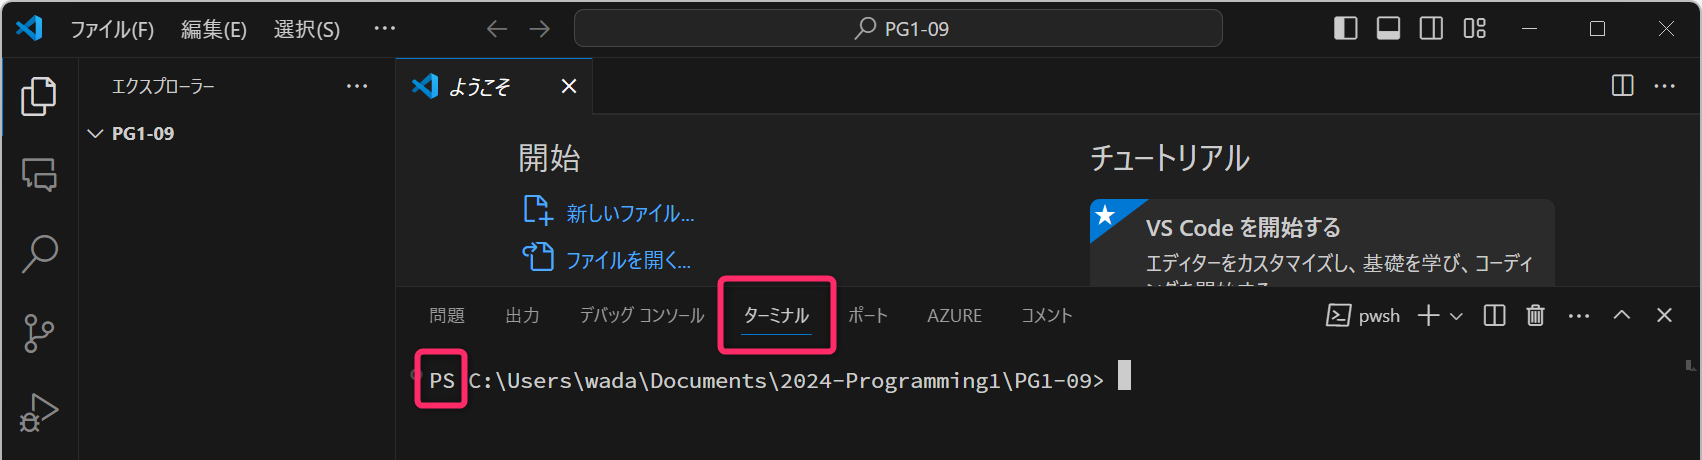
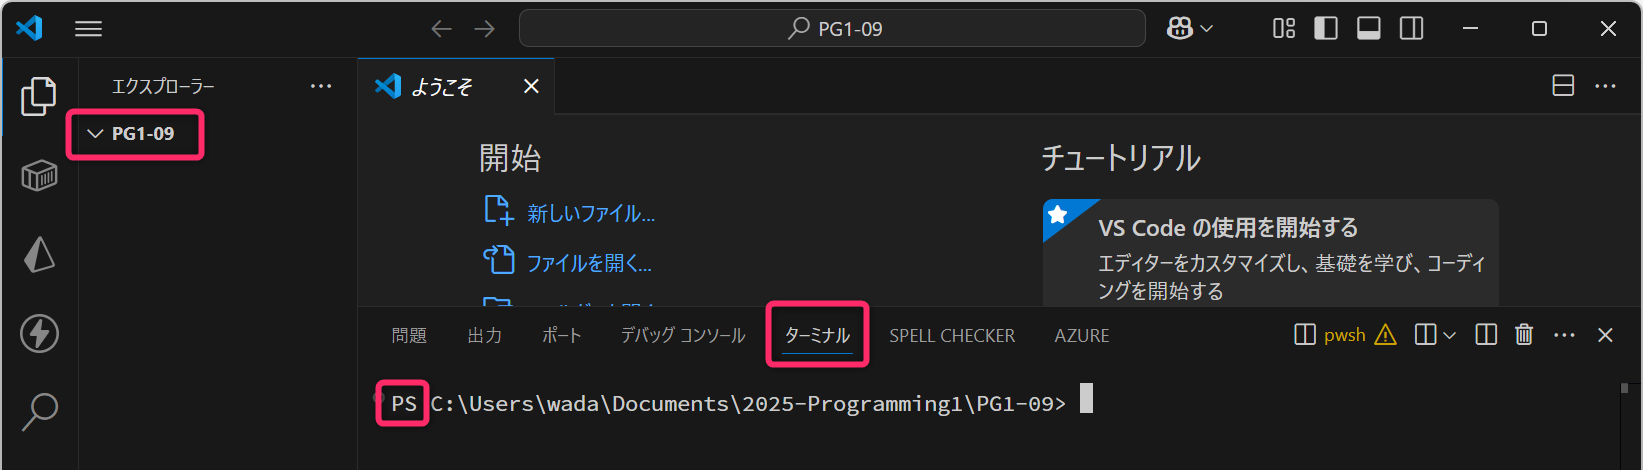
update 7 files and create 7 files

diff --git a/docs/lecture09.html b/docs/lecture09.html
@@ -65,8 +65,10 @@ Python のインストール</a>
 id="toc-リリース情報の確認とインストーラの入手"><span
 class="toc-section-number">4.1</span>
 リリース情報の確認とインストーラの入手</a></li>
-<li><a href="#md5-sum-の確認" id="toc-md5-sum-の確認"><span
-class="toc-section-number">4.2</span> MD5 Sum の確認</a></li>
+<li><a href="#md5-sum-の確認-オプション"
+id="toc-md5-sum-の確認-オプション"><span
+class="toc-section-number">4.2</span> MD5 Sum の確認
+(オプション)</a></li>
 <li><a href="#インストール" id="toc-インストール"><span
 class="toc-section-number">4.3</span> インストール</a></li>
 <li><a href="#正常にインストールされたことの確認-1"
@@ -133,6 +135,8 @@ class="toc-section-number">7.2</span>
 ノートブックの新規作成と実行</a></li>
 <li><a href="#注意点" id="toc-注意点"><span
 class="toc-section-number">7.3</span> 注意点</a></li>
+<li><a href="#作業の再開" id="toc-作業の再開"><span
+class="toc-section-number">7.4</span> 作業の再開</a></li>
 </ul></li>
 <li><a href="#演習" id="toc-演習"><span
 class="toc-section-number">8</span> 演習</a></li>
@@ -153,7 +157,7 @@ class="toc-section-number">8</span> 演習</a></li>
       <ul>
       <li><p>事前連絡したように、次のファイルを予めダウンロードしておいてください。</p></li>
       <li><p>ダウンロードしたファイルは「デスクトップ」に移動しておいてください。以降、デスクトップに各ファイルが置かれていることを前提に解説します。</p>
-      <ul>
+      <ol type="1">
       <li>Python 3.13.5 Windows installer (64-bit)
       <code>python-3.13.5-amd64.exe</code><a
       href="https://www.python.org/downloads/release/python-3135/">入手先</a></li>
@@ -163,7 +167,7 @@ class="toc-section-number">8</span> 演習</a></li>
       <li>Source Han Code JP | 源ノ角ゴシック Code
       <code>SourceHanCodeJP.ttc</code><a
       href="https://github.com/adobe-fonts/source-han-code-jp/releases">入手先</a></li>
-      </ul></li>
+      </ol></li>
       </ul>
       <div class="note type-caution">
       <p><strong>注意</strong></p>
@@ -319,9 +323,13 @@ class="toc-section-number">8</span> 演習</a></li>
       <p>公式ページにアクセスして、メニューの「<strong>Downloads</strong>」から「<strong>Windows</strong>」を選択して
       <a
       href="https://www.python.org/downloads/windows/">Windows向けのPythonのリリース状況</a>
-      を確認します。「リリース」とは <span
+      を確認します。</p>
+      <div class="note type-tips">
+      <p><strong>「リリース」とは</strong></p>
+      <p>リリース (Releases) とは <span
       class="masked">ソフトウェアやその新バージョンを一般公開すること、ユーザーが入手可能・利用可能な状態にすること</span>
       を意味します。</p>
+      </div>
       <p>2025年６月23日段階では、<strong>安定版</strong> (Stable
       Releases) として「Python 3.<strong>13</strong>.5」「Python
       3.<strong>12</strong>.10」「Python
@@ -350,7 +358,7 @@ class="toc-section-number">8</span> 演習</a></li>
       <p>Stable Releases
       とは「<strong>安定版</strong>」という意味です。ソフトウェアのインストールにおいては、特段の理由がなければ、この
       Stable Releases (安定版) や LTS (長期サポート版)
-      を選択するようにしください。その他、次のようなバージョンがあります。</p>
+      を選択するようにしてください。その他、次のようなバージョンがあります。</p>
       <ul>
       <li><strong>Long-Term Support Release (LTS) </strong>:
       特定のバージョンについて、長期間にわたりセキュリティ更新やバグ修正を提供するバージョンです。</li>
@@ -367,8 +375,9 @@ class="toc-section-number">8</span> 演習</a></li>
       Release</strong> や <strong>Alpha Release</strong>
       などを含んだ呼称です。</p>
       </div>
-      <h2 data-number="4.2" id="md5-sum-の確認"><span
-      class="header-section-number">4.2</span> MD5 Sum の確認</h2>
+      <h2 data-number="4.2" id="md5-sum-の確認-オプション"><span
+      class="header-section-number">4.2</span> MD5 Sum の確認
+      (オプション)</h2>
       <p>ダウンロードした「ファイルが破損していないか」、あるいは、ダウンロード途中で<strong>中間者攻撃を受けて</strong>「ファイルがすり替えられていないか」、「<strong>ウイルスを埋め込まれていないか</strong>」を確認する方法を紹介します。</p>
       <p>ここでは、<code>python-3.13.5-amd64.exe</code>
       がデスクトップに置かれているものとします。</p>
@@ -411,9 +420,6 @@ CertUtil: -hashfile コマンドは正常に完了しました。</code></pre>
       」のチェックボックスがグレーアウトしていることもあります
       (その場合は、チェック不要です)。また、3.13.X
       がインストールされている環境ではアップグレードを促す画面になるので、アップグレードをしてください。</p>
-      <div class="note type-caution">
-      <p><strong>以降のスクリーンショットは「3.11.4」のものです。適宜、読み替えてください。</strong></p>
-      </div>
       <figure>
       <img src="figs/09/py_inst_01.png" alt="img" />
       <figcaption aria-hidden="true">img</figcaption>
@@ -706,8 +712,20 @@ RemoteSigned</code></pre>
       プロジェクトフォルダの作成</h2>
       <p>エクスプローラを開き、ドキュメンフォルダのなかに
       <code>2025-Programming1</code>
-      を作成し、そのなかに移動します。今後は、この
-      <code>2025-Programming1</code> フォルダの内部に
+      を作成し、そのなかに移動してください。</p>
+      <div class="note type-tips">
+      <p><strong>ドキュメントフォルダをOneDrive同期している場合は…</strong></p>
+      <p><a
+      href="lecture09.html#準備">準備のセクション</a>で説明したように「<strong>ドキュメントフォルダ
+      をOneDrive同期している場合</strong>」は、<code>C:\Projects</code>
+      を作成して、そこに <code>2025-Programming1</code>
+      フォルダを作成してください。</p>
+      <figure>
+      <img src="figs/09/vs-code-26.png" alt="img" />
+      <figcaption aria-hidden="true">img</figcaption>
+      </figure>
+      </div>
+      <p>今後は、この <code>2025-Programming1</code> フォルダの内部に
       <strong>各種プロジェクトフォルダ</strong>
       を作成して管理していきます。</p>
       <figure>
@@ -715,7 +733,18 @@ RemoteSigned</code></pre>
       <figcaption aria-hidden="true">img</figcaption>
       </figure>
       <p><strong>第09回講義</strong>ということで、<code>PG1-09</code>
-      という名前のプロジェクトフォルダを作成してください。</p>
+      という名前のプロジェクトフォルダを作成してください。なお、上記スクリーンしょっとにおいて、エクスプローラのアドレスバーの表示が
+      <code>ドキュメント &gt; 2025-Programming1</code>
+      となっていますが、実際のパスは
+      <code>C:\Users\&lt;ユーザ名&gt;\Documents\2025-Programming1\</code>
+      です。</p>
+      <div class="note type-caution">
+      <p><strong>プロジェクトフォルダのパスに日本語や記号を含まないように注意</strong></p>
+      <p>プロジェクトフォルダを
+      <code>C:\Users\wada\Documents\授業\2年\プログラミング1\PG1-09</code>
+      のような<strong>日本語を含むパスに作成すると、不具合の原因</strong>になります。そのようなケースは、授業でのサポート範囲外となるので注意してください
+      (すべて自己解決できるのであれば問題ありません)。</p>
+      </div>
       <p>作成したフォルダを選択して
       <strong>「Shift」を押下しながら右クリック</strong>
       して「<strong>Codeで開く</strong>」を選択してください。これにより、VSCode
@@ -761,6 +790,10 @@ RemoteSigned</code></pre>
       <p>ターミナルのプロンプトの先頭表示が <code>(.venv)</code>
       に変わっていることを確認します。仮想環境が有効化されているときは、このような表示になるので覚えておいてください。</p>
       <pre><code>(.venv) PS C:\Users\wada\Documents\2025-Programming1\PG1-09&gt; </code></pre>
+      <figure>
+      <img src="figs/09/vs-code-20.png" alt="img" />
+      <figcaption aria-hidden="true">img</figcaption>
+      </figure>
       <h2 data-number="6.3"
       id="pythonファイルの新規作成とコードの記述"><span
       class="header-section-number">6.3</span>
@@ -804,7 +837,7 @@ RemoteSigned</code></pre>
       (<code>.vscode/launch.json</code>)
       が自動作成されます。特に編集することはないので、この
       <code>launch.json</code>
-      のタブは閉じてしまって問題ありません。</p>
+      のタブは閉じてしまって問題ありません。保存するか尋ねられたときは、保存してください。</p>
       <figure>
       <img src="figs/09/vs-code-11.png" alt="img" />
       <figcaption aria-hidden="true">img</figcaption>
@@ -834,48 +867,67 @@ RemoteSigned</code></pre>
       <p>ローカル環境に構築したPython環境でも、Jupyter (ジュピター)
       という GoogleColab と同様のノートブック開発が利用できます
       (もともと Jupyter が先にあって、それをクラウド化したものが Colab
-      になります )。</p>
+      というサービスです)。</p>
       <h2 data-number="7.1" id="ライブラリのインストール"><span
       class="header-section-number">7.1</span>
       ライブラリのインストール</h2>
       <p>Jupyterの実行に必要なライブラリを <code>pip</code>
       コマンドでインストールします。VSCodeのターミナル
-      (<code>Ctrl+J</code>で起動) から次のコマンドを実行します。</p>
+      (<code>Ctrl+J</code>で起動)
+      から次のコマンドを実行してください。</p>
       <pre><code>pip install jupyter</code></pre>
-      <p>これにより、jupyter
-      に関連するライブラリが仮想環境にインストールされます(多数のライブラリをインストールするので、そこそこの時間がかかります)。インストールされたライブラリは、次のように確認できます。</p>
+      <p>これにより、Jupyter
+      に関連するライブラリが仮想環境にインストールされます
+      (多数のライブラリをインストールするので、そこそこの時間がかかります)。インストールされたライブラリは、次のように確認できます。</p>
       <pre><code>pip list</code></pre>
-      <p>様々なライブラリがインストールされたことが確認できます。一方で、別途、VSCode外でターミナルを開いて
+      <p>Jupyter
+      の実行に必要な様々なライブラリがインストールされたことが確認できます。</p>
+      <figure>
+      <img src="figs/09/vs-code-21.png" alt="img" />
+      <figcaption aria-hidden="true">img</figcaption>
+      </figure>
+      <p>一方で、別途、<strong>VSCode外でターミナルを開いて</strong>
       <code>pip list</code>
-      を実行すれば、仮想環境でのライブラリのインストールの影響を受けていないことが確認できます。</p>
+      を実行してみてください。仮想環境のなかでインストールしたライブラリの影響を受けていないことが確認できます
+      (Pythonの「グローバル環境」は <strong>クリーンな状態</strong>
+      であることが確認できます)。</p>
+      <figure>
+      <img src="figs/09/vs-code-22.png" alt="img" />
+      <figcaption aria-hidden="true">img</figcaption>
+      </figure>
       <h2 data-number="7.2" id="ノートブックの新規作成と実行"><span
       class="header-section-number">7.2</span>
       ノートブックの新規作成と実行</h2>
       <p>Jupyter 用に <code>test-02.ipynb</code>
-      を新規作成します。また、さきほど、同様にプログラムを記述します。ノートブック環境なので
-      <code>%reset -f</code> も利用できます。</p>
+      というファイルを新規作成します。そして、「<strong>コードセル</strong>」を追加し<a
+      href="lecture09.html#pythonファイルの新規作成とコードの記述">さきほどと同様のプログラム</a>
+      を記述します。ノートブック環境なので <code>%reset -f</code>
+      も利用できます。</p>
       <figure>
       <img src="figs/09/vs-code-13.png" alt="img" />
       <figcaption aria-hidden="true">img</figcaption>
       </figure>
-      <p>初回実行時には、上記の❸の「カーネルの選択」、❹の「Python環境…」の選択、以下の「.venv」の選択が必要です。</p>
+      <p>初回実行時には、上記の❸の「<strong>カーネルの選択</strong>」、❹の「<strong>Python環境…</strong>」の選択、以下の「<strong>.venv</strong>」の選択が必要です。</p>
       <figure>
       <img src="figs/09/vs-code-14.png" alt="img" />
       <figcaption aria-hidden="true">img</figcaption>
       </figure>
-      <p>以降は、GoogleColab. と同じように、セルを選択して
+      <p>以降は、GoogleColab. と同じように、コードセルを選択して
       <code>Ctrl+Enter</code> でプログラムを実行することができます。</p>
       <h2 data-number="7.3" id="注意点"><span
       class="header-section-number">7.3</span> 注意点</h2>
       <p><code>input()</code>
-      を使った「文字列の入力受付け」は、VSCodeの画面上部に表示されるので注意してください。</p>
+      を使った「<strong>文字列の入力</strong>」は <span
+      class="masked">VSCodeの画面上部</span>
+      に表示されるので注意してください。</p>
       <figure>
       <img src="figs/09/vs-code-15.png" alt="img" />
       <figcaption aria-hidden="true">img</figcaption>
       </figure>
-      <p>セル移動は、<strong>以下の部分をクリック</strong>してから
+      <p>セルの上下移動は、<strong>以下の部分をクリック</strong>してから
       <code>Alt</code> + <code>↑</code>、<code>Alt</code> +
-      <code>↓</code> で移動ができます。</p>
+      <code>↓</code>
+      で行ないます。マウスのドラッグでうまくいかない場合があります。</p>
       <figure>
       <img src="figs/09/vs-code-16.png" alt="img" />
       <figcaption aria-hidden="true">img</figcaption>
@@ -888,7 +940,7 @@ RemoteSigned</code></pre>
 
       ```python{.numberLines}
       import pygame.examples.aliens
-      pygame.examples.aliens.main()
+      pygame.examples.aliens.main()]
       ```
 
       ```python{.numberLines}
@@ -897,6 +949,35 @@ RemoteSigned</code></pre>
       ```
 
       http://westplain.sakura.ne.jp/translate/pygame/Examples.cgi -->
+      <h2 data-number="7.4" id="作業の再開"><span
+      class="header-section-number">7.4</span> 作業の再開</h2>
+      <p>VSCode
+      を終了して、再度、作業を再開する際には次のことに注意してください。</p>
+      <p>(以下、普段から VSCode を使って Python
+      開発している人は無視してください)</p>
+      <p>VSCode
+      で作業を再開するときは、以下のようにエクスプローラで「<strong>PG1-09</strong>」のフォルダを選択し、Shiftを押下しながら右クリックで「Codeで開く」を選択する手順を踏んでください。それ以外の方法で再開した場合、<span
+      class="masked">仮想環境が有効にならないこと</span>
+      があるので注意してください。</p>
+      <figure>
+      <img src="figs/09/vs-code-23.png" alt="img" />
+      <figcaption aria-hidden="true">img</figcaption>
+      </figure>
+      <p>VSCode で「<strong>Python
+      の仮想環境が適切に有効化されているか</strong>」は以下の手順で確認できます。</p>
+      <figure>
+      <img src="figs/09/vs-code-24.png" alt="img" />
+      <figcaption aria-hidden="true">img</figcaption>
+      </figure>
+      <div class="note type-caution">
+      <p><strong>プロジェクトフォルダを適切にオープンしていない例</strong></p>
+      <p>以下の図のように、<code>.venv</code>
+      を直下に持たないフォルダをオープンすると<strong>仮想環境が有効化されません</strong>。</p>
+      <figure>
+      <img src="figs/09/vs-code-25.png" alt="img" />
+      <figcaption aria-hidden="true">img</figcaption>
+      </figure>
+      </div>
       <h1 data-number="8" id="演習"><span
       class="header-section-number">8</span> 演習</h1>
       <p>繰返し練習してください。</p>
